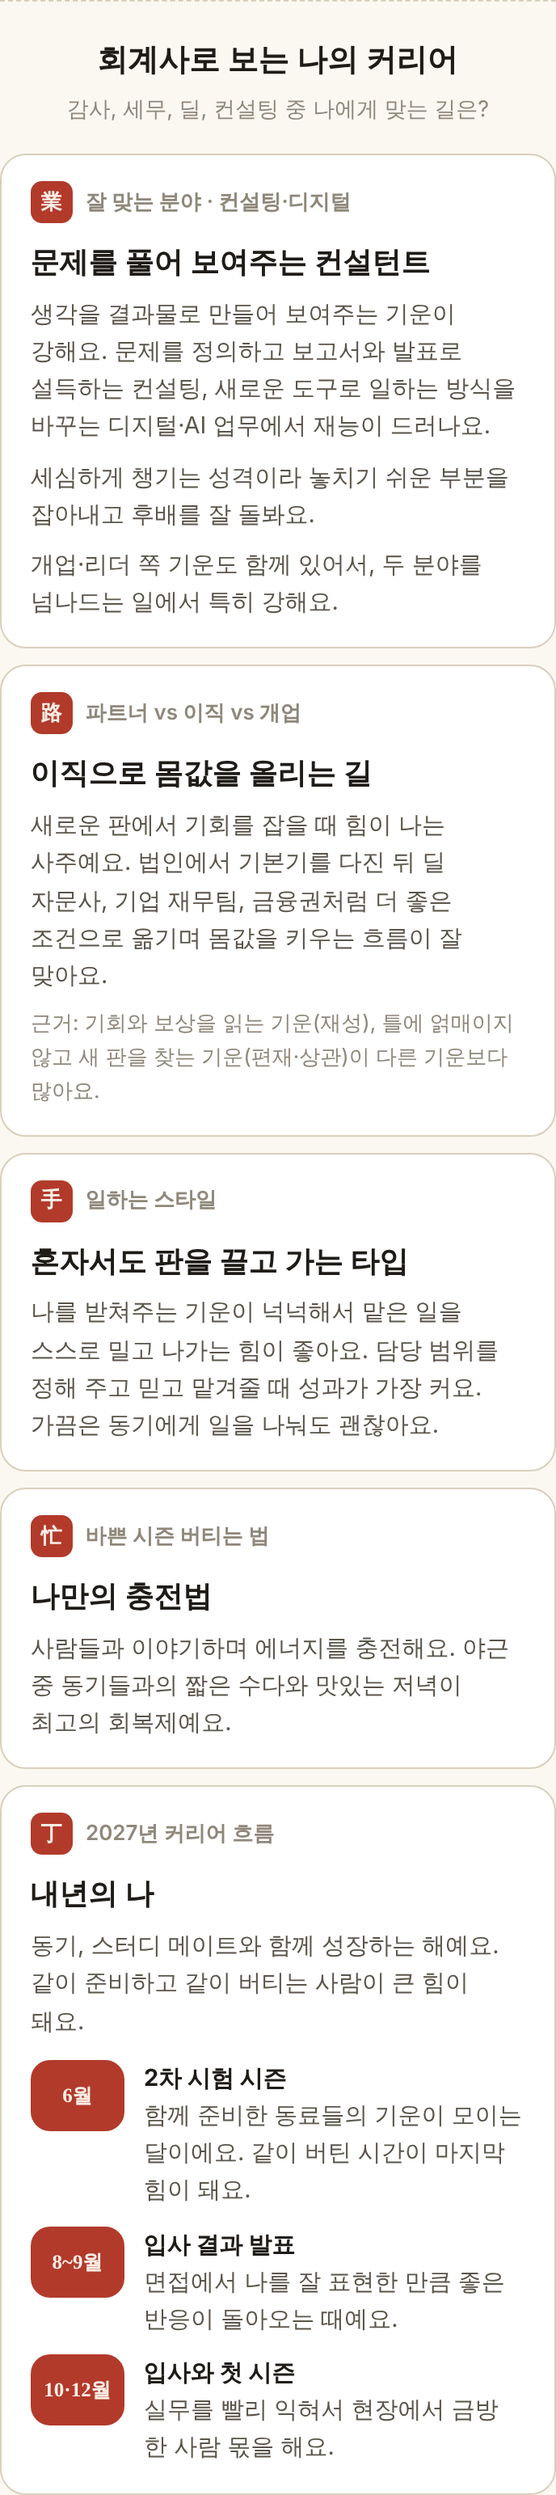
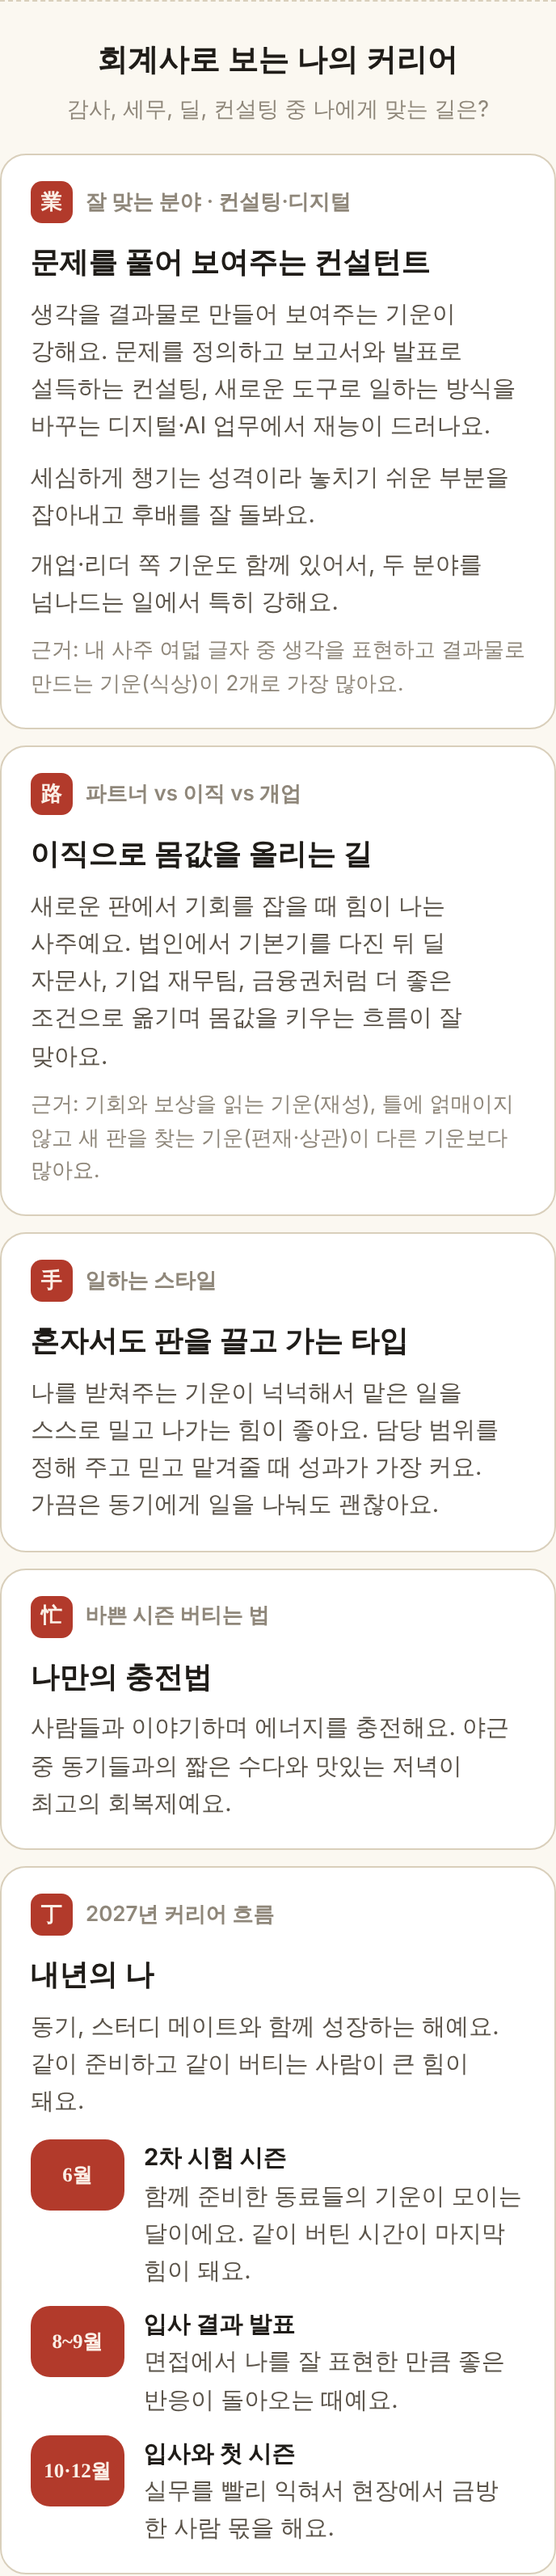
잘 맞는 회계사 분야에 사주 근거 한 줄 추가
Claude-Session: https://claude.ai/code/session_012bKZfKa4NxDtXrmtTF5ER5

diff --git a/lib/career.js b/lib/career.js
@@ -36,6 +36,13 @@ const FIELD = {
     body: '주도적으로 판단할 때 힘이 나는 기운이 강해요. 경험을 쌓은 뒤 내 사무소를 열거나, 스타트업 CFO처럼 결정권을 갖는 자리에서 크게 성장하는 흐름이에요.',
   },
 };
+const BASIS = {
+  관성: '원칙과 책임을 뜻하는 기운(관성)',
+  인성: '배우고 깊이 파는 기운(인성)',
+  재성: '돈의 흐름과 기회를 읽는 기운(재성)',
+  식상: '생각을 표현하고 결과물로 만드는 기운(식상)',
+  비겁: '내 뜻대로 주도하는 기운(비겁)',
+};
 const ORDER = ['관성', '인성', '재성', '식상', '비겁'];
 
 const STYLE = {
@@ -185,7 +192,8 @@ export function readCareer(saju) {
   const yearGroup = GROUP_OF[getTenGod(saju.dayMaster, '정')];
 
   return {
-    field: { label: field.name, title: field.title, body: field.body, extra, trait: TRAIT[saju.dayMaster] },
+    field: { label: field.name, title: field.title, body: field.body, extra, trait: TRAIT[saju.dayMaster],
+      basis: `근거: 내 사주 여덟 글자 중 ${BASIS[top]}이 ${counts[top]}개로 가장 많아요.` },
     style,
     path: careerPath(saju, counts, gods),
     busy: BUSY[STEM_ELEMENT[saju.dayMaster]],

diff --git a/public/index.html b/public/index.html
@@ -722,7 +722,7 @@
         <h3>회계사로 보는 나의 커리어</h3>
         <p class="sub">감사, 세무, 딜, 컨설팅 중 나에게 맞는 길은?</p>
         ${card('業', `잘 맞는 분야 · ${c.field.label}`, c.field.title, c.field.body,
-          `<p class="more">${c.field.trait}</p>${c.field.extra ? `<p class="more">${c.field.extra}</p>` : ''}`)}
+          `<p class="more">${c.field.trait}</p>${c.field.extra ? `<p class="more">${c.field.extra}</p>` : ''}${c.field.basis ? `<p class="basis">${c.field.basis}</p>` : ''}`)}
         ${card('路', '파트너 vs 이직 vs 개업', c.path.title, c.path.body, `<p class="basis">${c.path.basis}</p>`)}
         ${card('手', '일하는 스타일', c.style.title, c.style.body)}
         ${card('忙', '바쁜 시즌 버티는 법', '나만의 충전법', c.busy)}
